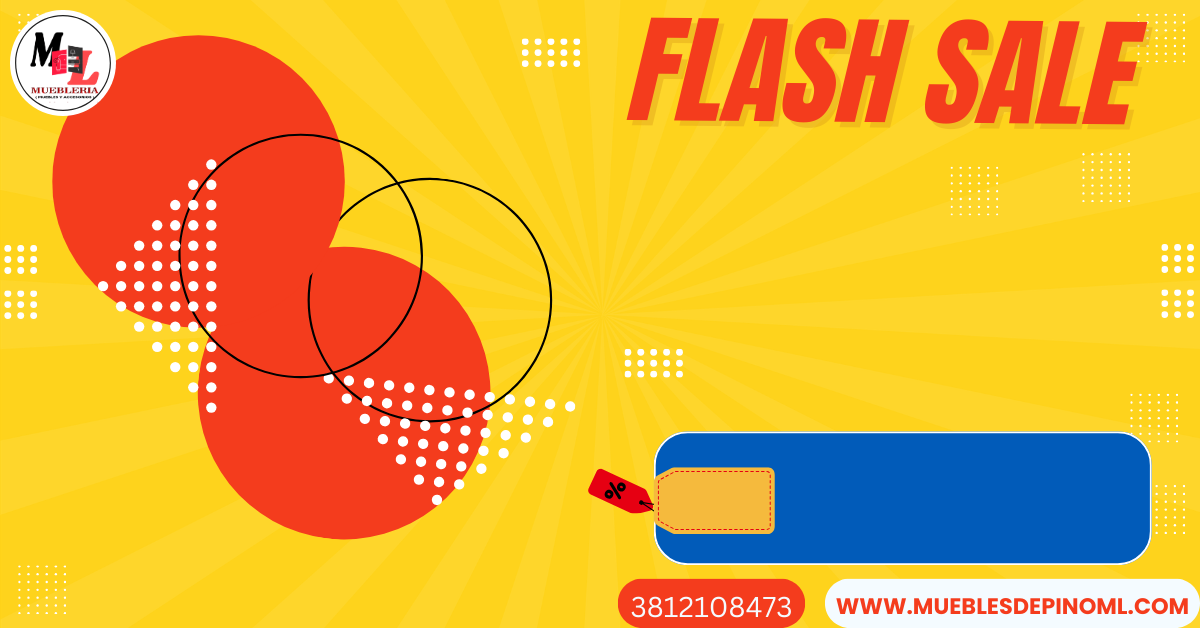
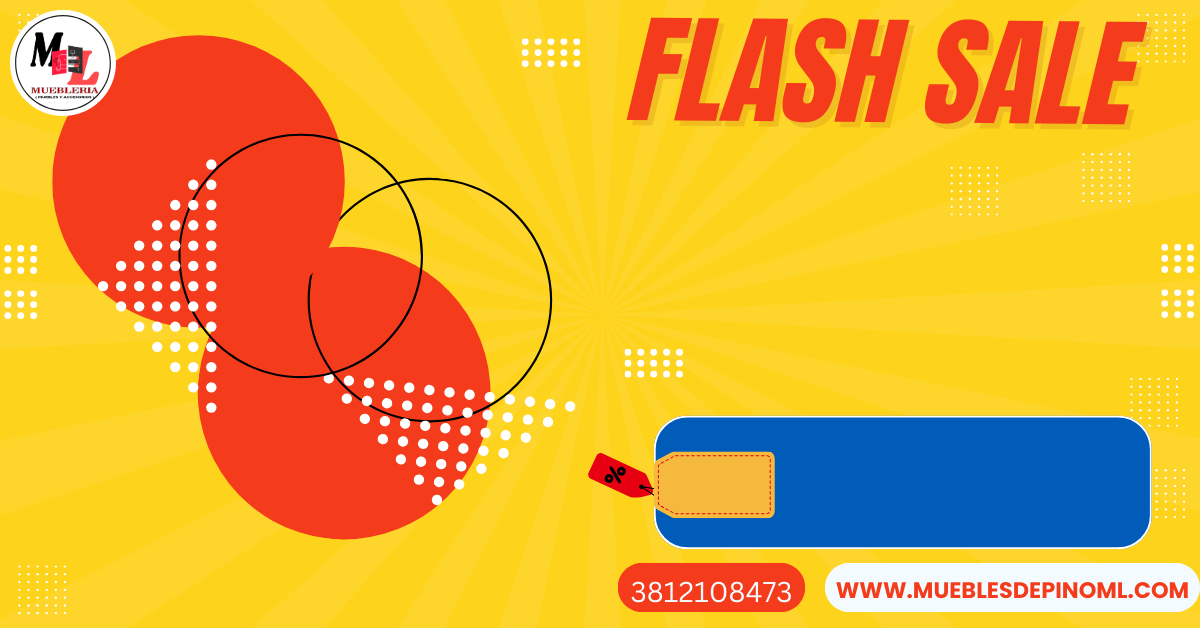
se acomoda plantilla page

Changed region(s): [[0.4933, 0.6354, 1.0, 1.0]]

diff --git a/src/components/Plantillas/MegaOferta.jsx b/src/components/Plantillas/MegaOferta.jsx
@@ -9,10 +9,12 @@ const Megaoferta = ({
   precioLista = 500000,
   precioOferta = 250000,
   porcentajeDescuento = 50,
+  preview = false,
 }) => {
   const BASE_W = 1200;
   const BASE_H = 600;
   const [scale, setScale] = useState(1);
+  const effectiveScale = preview ? 1 : scale;
 
   useEffect(() => {
     const calc = () => setScale(Math.min(window.innerWidth / BASE_W, window.innerHeight / BASE_H));
@@ -55,8 +57,8 @@ const Megaoferta = ({
       {/* Pantalla completa → centra la escena */}
       <div
         style={{
-          width: '100vw',
-          height: '100vh',
+          width: preview ? BASE_W : '100vw',
+          height: preview ? BASE_H : '100vh',
           background: '#000',
           display: 'flex',
           alignItems: 'center',
@@ -71,7 +73,7 @@ const Megaoferta = ({
             width: BASE_W,
             height: BASE_H,
             flexShrink: 0,
-            transform: `scale(${scale})`,
+            transform: `scale(${effectiveScale})`,
             transformOrigin: 'center center',
           }}
         >
@@ -194,7 +196,7 @@ const Megaoferta = ({
             style={{
               position: 'absolute',
               left: 890,
-              top: unaLinea ? 195 : 180,
+              top: unaLinea ? 200 : 190,
               transform: 'translateX(-50%)',
               fontFamily: "'Rubik', sans-serif",
               fontWeight: 900,
@@ -249,10 +251,9 @@ const Megaoferta = ({
               alt={nombreProducto ?? ''}
               style={{
                 position: 'absolute',
-                left: 70,
+                left: 20,
                 top: 40,
-                transform: 'translateX(-50%)',
-                width: 570,
+                width: 530,
                 height: 530,
                 objectFit: 'contain',
                 animation: 'floatProd 4s ease-in-out infinite, glowProd 4s ease-in-out infinite',

diff --git a/src/components/Plantillas/FeriaDescuentos.jsx b/src/components/Plantillas/FeriaDescuentos.jsx
@@ -9,10 +9,12 @@ const FeriaDescuentos = ({
   precioLista = 500000,
   precioOferta = 250000,
   porcentajeDescuento = 50,
+  preview = false,
 }) => {
   const BASE_W = 1200;
   const BASE_H = 600;
   const [scale, setScale] = useState(1);
+  const effectiveScale = preview ? 1 : scale;
 
   useEffect(() => {
     const calc = () => setScale(Math.min(window.innerWidth / BASE_W, window.innerHeight / BASE_H));
@@ -60,8 +62,8 @@ const FeriaDescuentos = ({
 
       <div
         style={{
-          width: '100vw',
-          height: '100vh',
+          width: preview ? BASE_W : '100vw',
+          height: preview ? BASE_H : '100vh',
           background: '#f0f4ff',
           display: 'flex',
           alignItems: 'center',
@@ -75,7 +77,7 @@ const FeriaDescuentos = ({
             width: BASE_W,
             height: BASE_H,
             flexShrink: 0,
-            transform: `scale(${scale})`,
+            transform: `scale(${effectiveScale})`,
             transformOrigin: 'center center',
           }}
         >

diff --git a/src/components/Plantillas/BlackFriday.jsx b/src/components/Plantillas/BlackFriday.jsx
@@ -9,10 +9,12 @@ const BlackFriday = ({
   precioLista = 500000,
   precioOferta = 250000,
   porcentajeDescuento = 50,
+  preview = false,
 }) => {
   const BASE_W = 1200;
   const BASE_H = 600;
   const [scale, setScale] = useState(1);
+  const effectiveScale = preview ? 1 : scale;
 
   useEffect(() => {
     const calc = () => setScale(Math.min(window.innerWidth / BASE_W, window.innerHeight / BASE_H));
@@ -60,8 +62,8 @@ const BlackFriday = ({
 
       <div
         style={{
-          width: '100vw',
-          height: '100vh',
+          width: preview ? BASE_W : '100vw',
+          height: preview ? BASE_H : '100vh',
           background: '#f0f4ff',
           display: 'flex',
           alignItems: 'center',
@@ -75,7 +77,7 @@ const BlackFriday = ({
             width: BASE_W,
             height: BASE_H,
             flexShrink: 0,
-            transform: `scale(${scale})`,
+            transform: `scale(${effectiveScale})`,
             transformOrigin: 'center center',
           }}
         >

diff --git a/src/components/Plantillas/FlashSale.jsx b/src/components/Plantillas/FlashSale.jsx
@@ -9,10 +9,12 @@ const FlashSale = ({
   precioLista = 500000,
   precioOferta = 250000,
   porcentajeDescuento = 50,
+  preview = false,
 }) => {
   const BASE_W = 1200;
   const BASE_H = 600;
   const [scale, setScale] = useState(1);
+  const effectiveScale = preview ? 1 : scale;
 
   useEffect(() => {
     const calc = () => setScale(Math.min(window.innerWidth / BASE_W, window.innerHeight / BASE_H));
@@ -54,8 +56,8 @@ const FlashSale = ({
 
       <div
         style={{
-          width: '100vw',
-          height: '100vh',
+          width: preview ? BASE_W : '100vw',
+          height: preview ? BASE_H : '100vh',
           background: '#fff',
           display: 'flex',
           alignItems: 'center',
@@ -69,7 +71,7 @@ const FlashSale = ({
             width: BASE_W,
             height: BASE_H,
             flexShrink: 0,
-            transform: `scale(${scale})`,
+            transform: `scale(${effectiveScale})`,
             transformOrigin: 'center center',
           }}
         >

diff --git a/src/components/Plantillas/HotSale.jsx b/src/components/Plantillas/HotSale.jsx
@@ -9,10 +9,12 @@ const HotSale = ({
   precioLista = 500000,
   precioOferta = 250000,
   porcentajeDescuento = 50,
+  preview = false,
 }) => {
   const BASE_W = 1200;
   const BASE_H = 600;
   const [scale, setScale] = useState(1);
+  const effectiveScale = preview ? 1 : scale;
 
   useEffect(() => {
     const calc = () => setScale(Math.min(window.innerWidth / BASE_W, window.innerHeight / BASE_H));
@@ -60,8 +62,8 @@ const HotSale = ({
 
       <div
         style={{
-          width: '100vw',
-          height: '100vh',
+          width: preview ? BASE_W : '100vw',
+          height: preview ? BASE_H : '100vh',
           background: '#f0f4ff',
           display: 'flex',
           alignItems: 'center',
@@ -75,7 +77,7 @@ const HotSale = ({
             width: BASE_W,
             height: BASE_H,
             flexShrink: 0,
-            transform: `scale(${scale})`,
+            transform: `scale(${effectiveScale})`,
             transformOrigin: 'center center',
           }}
         >

diff --git a/src/pages/PlantillasPage.jsx b/src/pages/PlantillasPage.jsx
@@ -44,9 +44,9 @@ const PLANTILLAS = [
   },
 ];
 
-// Dimensiones de referencia del template
-const TMPL_W = 1280;
-const TMPL_H = 720;
+// Dimensiones de referencia del template (coinciden con BASE_W/BASE_H de los componentes)
+const TMPL_W = 1200;
+const TMPL_H = 600;
 
 function MiniCard({ plantilla, onClick }) {
   const wrapRef = useRef(null);
@@ -96,7 +96,7 @@ function MiniCard({ plantilla, onClick }) {
             pointerEvents: 'none',
           }}
         >
-          <Comp key={plantilla.id} />
+          <Comp key={plantilla.id} preview />
         </div>
 
         {/* Hover hint */}
